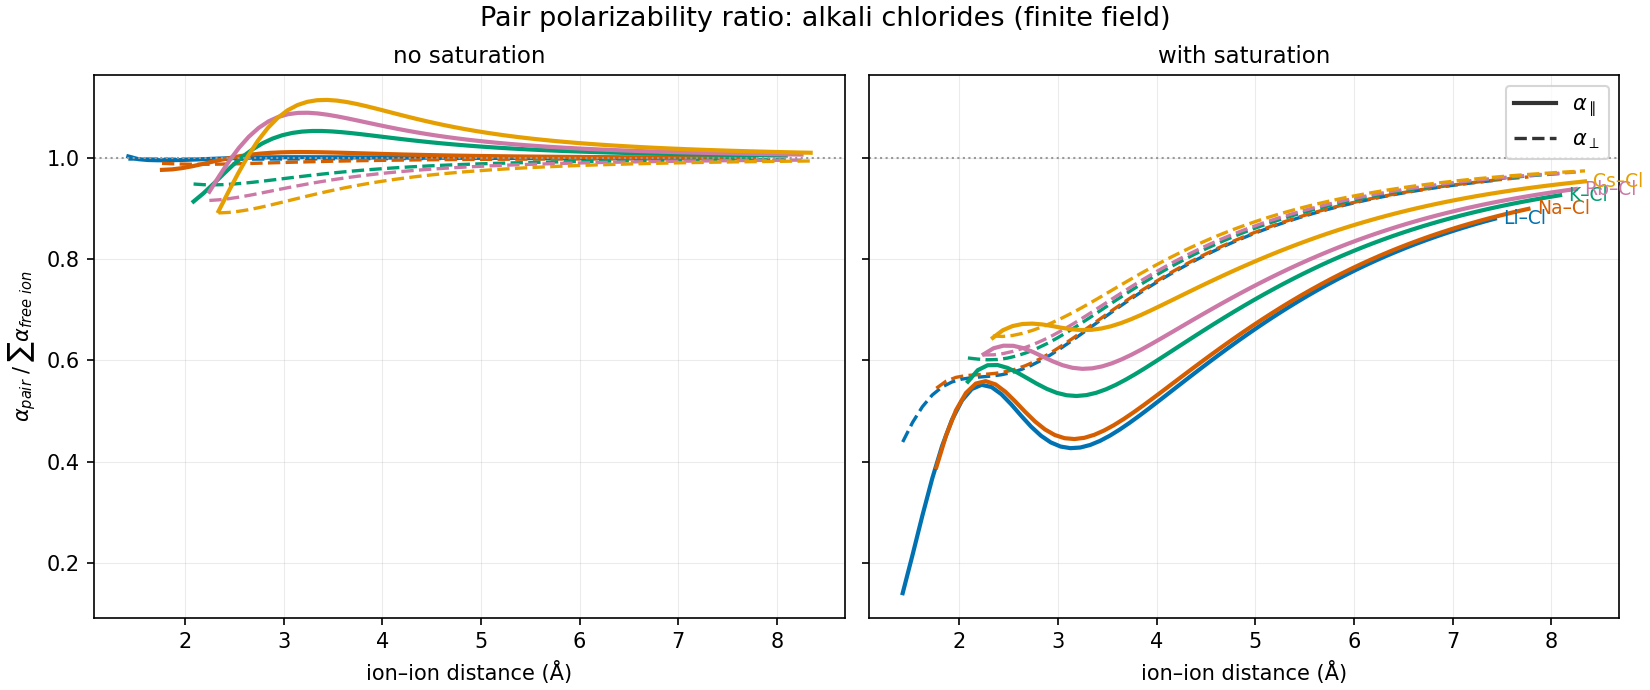
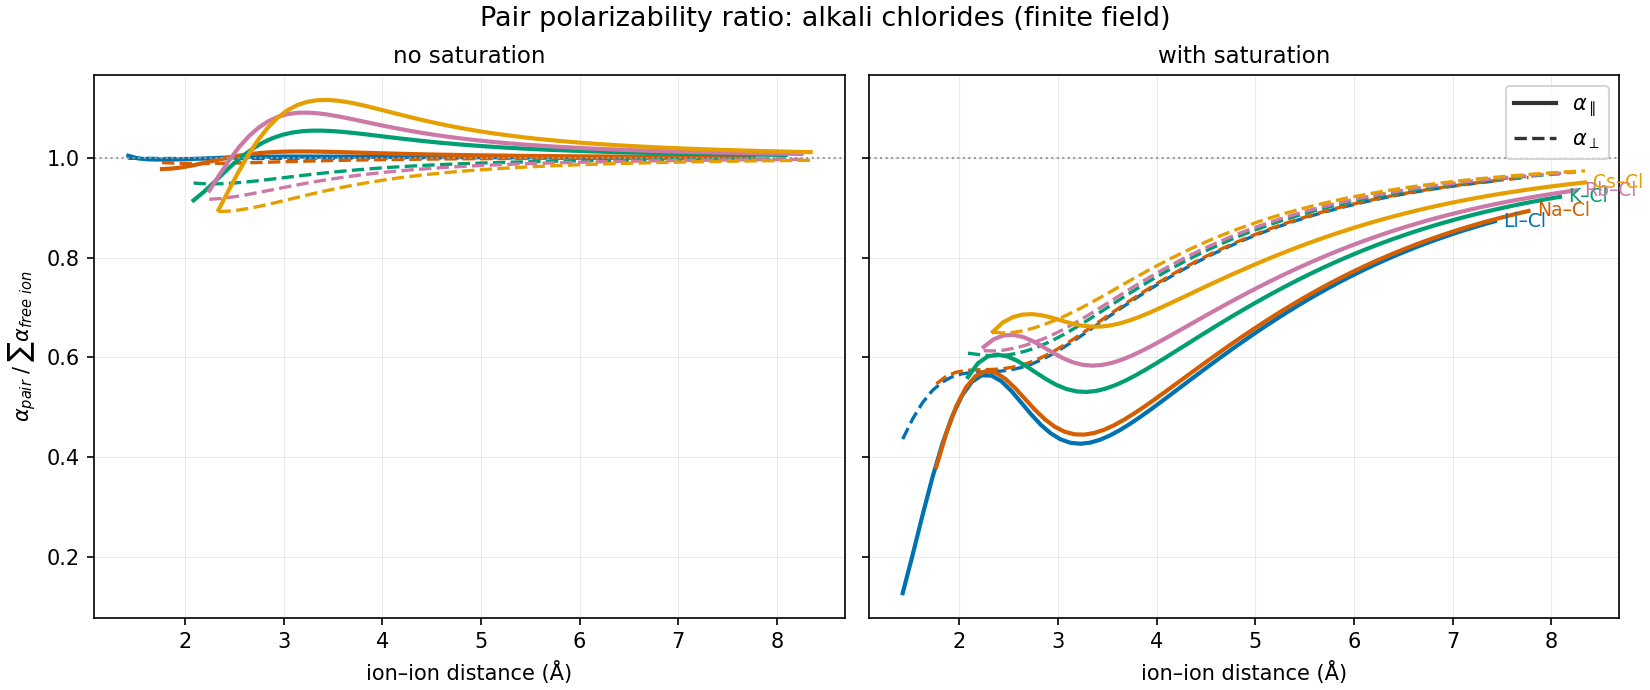
Direct quadrupole polarization

diff --git a/scripts/fit_dipole_saturation.py b/scripts/fit_dipole_saturation.py
@@ -57,15 +57,25 @@ def halide_mask(ff):
     return mask
 
 
+def type_mask(ff, type_names):
+    types = list(ff.pset.find('Polarization/Pol/type'))
+    mask = torch.zeros(len(types))
+    for t in type_names:
+        mask[types.index(t)] = 1.0
+    return mask
+
+
 def run_stage(ff, datas, param_groups, num_epoch, log_every=25):
-    """param_groups: list of (pset_path, lr). Only halide entries train."""
-    mask = halide_mask(ff)
-    params = []
-    for path, lr in param_groups:
+    """param_groups: list of (pset_path, lr, mask) — mask selects which type
+    entries of that parameter train (defaults to the halides when None)."""
+    groups = []
+    for path, lr, mask in param_groups:
         p = ff.pset.find(path)
         p.requires_grad_(True)
-        params.append({'params': [p], 'lr': lr})
-    optimizer = torch.optim.Adam(params)
+        groups.append({'params': [p], 'lr': lr,
+                       'mask': halide_mask(ff) if mask is None else mask,
+                       'path': path})
+    optimizer = torch.optim.Adam([{k: g[k] for k in ('params', 'lr')} for g in groups])
 
     systems = [ff.parametrize(Topology.fromOpenmm(d.top), batch=True) for d in datas]
     for n in range(num_epoch):
@@ -76,26 +86,26 @@ def run_stage(ff, datas, param_groups, num_epoch, log_every=25):
             loss = weight_mse(data.energies['pol'], res['pol'], weights)
             optimizer.zero_grad()
             loss.backward()
-            for g in optimizer.param_groups:
-                for p in g['params']:
-                    if p.grad is not None:
-                        p.grad *= mask
+            for g in groups:
+                p = g['params'][0]
+                if p.grad is not None:
+                    p.grad *= g['mask']
             optimizer.step()
             epoch_loss += loss.item()
         with torch.no_grad():
-            for path, _ in param_groups:
-                p = ff.pset.find(path)
+            for g in groups:
+                path, p, m = g['path'], g['params'][0], g['mask'].bool()
                 if path.endswith('sat_e0'):
-                    p.data[mask.bool()] = p.data[mask.bool()].clamp(E0_MIN, E0_MAX)
+                    p.data[m] = p.data[m].clamp(E0_MIN, E0_MAX)
                 elif path.endswith('sat_w'):
-                    p.data[mask.bool()] = p.data[mask.bool()].clamp(0.1, 10.0)
+                    p.data[m] = p.data[m].clamp(0.1, 10.0)
                 elif path.endswith('sat_c_ani'):
                     # either sign is well-defined (free-ion limit exact, energy
                     # bounded, SPD floor in the solver); negative = extra
                     # axial damping instead of a parallel rise
-                    p.data[mask.bool()] = p.data[mask.bool()].clamp(-10.0, 10.0)
+                    p.data[m] = p.data[m].clamp(-10.0, 10.0)
                 else:
-                    p.data[mask.bool()] = p.data[mask.bool()].clamp_min(1e-6)
+                    p.data[m] = p.data[m].clamp_min(1e-6)
         if n % log_every == 0 or n == num_epoch - 1:
             print(f'epoch {n:4d}  sum pol loss = {epoch_loss:.4f}')
 
@@ -136,29 +146,26 @@ def main():
         ff.pset.find('Polarization/Pol/sat_c_ani').zero_()  # isotropic-only
 
     print('\n===== stage 1: sat_c_iso only (sat_e0 = 0.05 a.u. fixed) =====')
-    run_stage(ff, datas, [('Polarization/Pol/sat_c_iso', 0.05)], args.epochs1)
+    run_stage(ff, datas, [('Polarization/Pol/sat_c_iso', 0.05, None)], args.epochs1)
     report(ff, datas)
 
     print('\n===== stage 2: sat_c_iso + per-ion sat_e0 =====')
-    run_stage(ff, datas, [('Polarization/Pol/sat_c_iso', 0.02),
-                          ('Polarization/Pol/sat_e0', 0.002)], args.epochs2)
+    run_stage(ff, datas, [('Polarization/Pol/sat_c_iso', 0.02, None),
+                          ('Polarization/Pol/sat_e0', 0.002, None)], args.epochs2)
     report(ff, datas)
 
-    # ---- anisotropic term: seed and fit with the isotropic part frozen ----
-    mask = halide_mask(ff).bool()
+    # ---- direct quadrupole polarization: halides + the big soft cations ----
+    quad_mask = type_mask(ff, HALIDE_TYPES + ['rb+', 'cs+'])
     with torch.no_grad():
-        ff.pset.find('Polarization/Pol/sat_c_ani').data[mask] = 0.1
-        ff.pset.find('Polarization/Pol/sat_w').data[mask] = 1.0
-    print('\n===== stage 3: sat_c_ani + sat_w (isotropic frozen) =====')
-    run_stage(ff, datas, [('Polarization/Pol/sat_c_ani', 0.005),
-                          ('Polarization/Pol/sat_w', 0.02)], args.epochs3)
+        ff.pset.find('Polarization/Pol/quad_pol').data[quad_mask.bool()] = 2.0
+    print('\n===== stage 3: quad_pol alone (saturation frozen) =====')
+    run_stage(ff, datas, [('Polarization/Pol/quad_pol', 0.3, quad_mask)], args.epochs3)
     report(ff, datas)
 
-    print('\n===== stage 4: joint fine-tune (all four, small lr) =====')
-    run_stage(ff, datas, [('Polarization/Pol/sat_c_iso', 0.01),
-                          ('Polarization/Pol/sat_e0', 0.001),
-                          ('Polarization/Pol/sat_c_ani', 0.002),
-                          ('Polarization/Pol/sat_w', 0.01)], args.epochs4)
+    print('\n===== stage 4: joint fine-tune (c_iso, e0, quad_pol) =====')
+    run_stage(ff, datas, [('Polarization/Pol/sat_c_iso', 0.01, None),
+                          ('Polarization/Pol/sat_e0', 0.001, None),
+                          ('Polarization/Pol/quad_pol', 0.1, quad_mask)], args.epochs4)
     report(ff, datas)
     print('\n--- divalent pairs (held out, not fit) ---')
     report(ff, datas_divalent)
@@ -166,12 +173,11 @@ def main():
     types = ff.pset.find('Polarization/Pol/type')
     c_iso = ff.pset.find('Polarization/Pol/sat_c_iso')
     e0 = ff.pset.find('Polarization/Pol/sat_e0')
-    c_ani = ff.pset.find('Polarization/Pol/sat_c_ani')
-    w = ff.pset.find('Polarization/Pol/sat_w')
+    qp = ff.pset.find('Polarization/Pol/quad_pol')
     print('\n=== fitted parameters ===')
     for i, t in enumerate(types):
         print(f'{t:6s} sat_c_iso={c_iso[i].item():10.5f} sat_e0={e0[i].item():10.5f} '
-              f'sat_c_ani={c_ani[i].item():10.5f} sat_w={w[i].item():10.5f}')
+              f'quad_pol={qp[i].item():10.5f}')
 
     ff.save(args.out)
     print(f'\nwrote {args.out}')

diff --git a/tests/test_dipole_saturation.py b/tests/test_dipole_saturation.py
@@ -170,3 +170,57 @@ def test_uniform_field_saturation_sublinear():
     p1, p2 = induced(e1), induced(e2)
     assert p1 > 0
     assert p2 / p1 < 2.0 * 0.999  # sublinear growth for the saturating Cl-
+
+
+def test_quadrupole_point_charge_analytic():
+    # packed d2(phi) of a point charge q at distance r along x:
+    # diag(2, -1, -1) * q/r^3  ->  |G0|^2 = 6 q^2/r^6, U = -3 C q^2 / r^6
+    from cmm.quadrupole_polarization import quadrupole_polarization_energy
+    q, r, C = 1.3, 4.0, 25.0
+    g = torch.tensor([[2.0, 0.0, 0.0, -1.0, 0.0, -1.0]]) * (q / r ** 3)
+    e = quadrupole_polarization_energy(g, torch.tensor([C]))
+    assert torch.allclose(e, torch.tensor([-3.0 * C * q * q / r ** 6]), rtol=1e-12)
+
+    # a pure-trace gradient (unphysical, but exercises the traceless projection)
+    g_trace = torch.tensor([[1.0, 0.0, 0.0, 1.0, 0.0, 1.0]])
+    assert torch.allclose(quadrupole_polarization_energy(g_trace, torch.tensor([C])), torch.zeros(1))
+
+
+def test_quad_pol_end_to_end_far_field():
+    # two monovalent ions far apart: the field gradient at each ion is that of
+    # a +/-1 point charge, so energies['quad_pol'] -> -3 (C_i + C_j) / r^6
+    app = pytest.importorskip('openmm.app')
+    from cmm.ffxml import ForceFieldXML
+    from cmm.topology import Topology
+
+    scans = os.environ.get(
+        'CMM_DATA', os.path.join(os.path.dirname(__file__), '..', '..', 'CMM_Data')
+    )
+    pdb_file = os.path.join(scans, 'ion_water', 'ion_ion_scans', 'na_cl_scan.pdb')
+    if not os.path.exists(pdb_file):
+        pytest.skip('CMM_Data not available')
+
+    pdb = app.PDBFile(pdb_file)
+    ff = ForceFieldXML(
+        os.path.join(os.path.dirname(__file__), '..', 'scripts', 'ion_water_refit.xml'),
+        device='cpu', float_dtype=torch.float64
+    )
+    types = list(ff.pset.find('Polarization/Pol/type'))
+    C = 40.0
+    with torch.no_grad():
+        ff.pset.find('Polarization/Pol/quad_pol')[types.index('cl-')] = C
+
+    top = Topology.fromOpenmm(pdb.topology, 'cpu')
+    system = ff.parametrize(top, batch=True)
+    r = 40.0  # bohr, far enough that CP damping is negligible
+    coords = torch.tensor([[[0.0, 0.0, 0.0], [r, 0.0, 0.0]]])
+    res = system.getEnergy(coords)
+    expected = -3.0 * C / r ** 6
+    assert torch.allclose(res['quad_pol'][0], torch.tensor(expected), rtol=1e-6)
+
+    # the term lands in the pol channel: switching it off changes pol by exactly quad_pol
+    with torch.no_grad():
+        ff.pset.find('Polarization/Pol/quad_pol')[types.index('cl-')] = 0.0
+    res0 = system.getEnergy(coords)
+    assert torch.allclose(res['elec_pol'][0] - res0['elec_pol'][0], res['quad_pol'][0], atol=1e-14)
+    assert torch.allclose(res0['quad_pol'], torch.zeros(1))

diff --git a/cmm/batched_system.py b/cmm/batched_system.py
@@ -32,6 +32,7 @@ from .dispersion import computeDispersionFromPairs
 from .dipole_saturation import (
     unit_field_axis, saturation_energy, saturation_secant_matrix
 )
+from .quadrupole_polarization import quadrupole_polarization_energy
 from .electrostatics import computePermanentElectricPotentialExpansion
 from .units import HARTREE2KCAL
 
@@ -296,6 +297,7 @@ class BatchedSystem(nn.Module):
         ene_pauli = torch.zeros(nbz, device=device, dtype=dtype)
         ene_disp = torch.zeros(nbz, device=device, dtype=dtype)
         induced_molecular_dipole = torch.zeros((nbz, 3), device=device, dtype=dtype)
+        ene_qpol = torch.zeros(nbz, device=device, dtype=dtype)
         # these two variables are used in evaluate fd-morse
         efield = torch.zeros((self.natoms*nbz, 3), device=device, dtype=dtype)
         dq_a = torch.zeros(self.natoms*nbz, device=device, dtype=dtype)
@@ -344,6 +346,7 @@ class BatchedSystem(nn.Module):
             sat_c_ani = self.parametrizers['Polarization'].getExpandParameters("sat_c_ani")[expand_to_batch_indices]
             sat_w = self.parametrizers['Polarization'].getExpandParameters("sat_w")[expand_to_batch_indices]
             sat_e0 = self.parametrizers['Polarization'].getExpandParameters("sat_e0")[expand_to_batch_indices]
+            quad_pol = self.parametrizers['Polarization'].getExpandParameters("quad_pol")[expand_to_batch_indices]
             alpha_iso = torch.diagonal(polarizabilities, dim1=-2, dim2=-1).mean(dim=-1)
             use_sat = self.use_dipole_saturation and bool(
                 torch.any(sat_c_iso != 0) or torch.any(sat_c_ani != 0)
@@ -569,6 +572,12 @@ class BatchedSystem(nn.Module):
                 solutions_ct, ene_pol_ct = solve_polarization(b_vector_ct)
                 ene_ct_indirect = ene_pol_ct - ene_pol
 
+                # direct (non-SCF) quadrupole polarization from the permanent
+                # field gradient; lands in the pol channel
+                if torch.any(quad_pol != 0):
+                    ene_qpol = quadrupole_polarization_energy(edata[:, 4:10], quad_pol).reshape(nbz, -1).sum(dim=1)
+                    ene_pol = ene_pol + ene_qpol
+
                 # induced molecular dipole P = sum_i (q_i r_i + mu_i) from the
                 # converged polarization solution (finite-field polarizability)
                 q_ind = solutions[:, self._fill_bvec_epot_indices]
@@ -610,6 +619,7 @@ class BatchedSystem(nn.Module):
         energies = {
             "perm_elec": ene_elec,
             "elec_pol": ene_pol,
+            "quad_pol": ene_qpol,
             "ct_direct": ene_ct_direct,
             "ct_indirect": ene_ct_indirect,
             "xpol": ene_xpol,

diff --git a/cmm/system.py b/cmm/system.py
@@ -40,6 +40,7 @@ from .pme_helper import PME
 from .electrostatics import computeDampFactorsErfc, computeDampFactorsErf
 from .polarization import CMMPolarization
 from .dipole_saturation import unit_field_axis
+from .quadrupole_polarization import quadrupole_polarization_energy
 from .switching_functions import SwitchFunction
 
 import time, os
@@ -668,6 +669,19 @@ class System(nn.Module):
                                 pol_interaction_tensor_sr=pol_tensor,
                                 direct_field_tensor_excl=realSpaceTensor_excl,
                             )
+
+                        # direct (non-SCF) quadrupole polarization from the
+                        # permanent field gradient
+                        quad_pol = self.parametrizers['Polarization'].getExpandParameters("quad_pol")
+                        if torch.any(quad_pol != 0):
+                            # real-space edata[:, 4:10] holds packed +d2(phi);
+                            # the ewald module returns the true grad(E) = -d2(phi)
+                            grad_packed = edata[:, 4:10]
+                            if self.use_ewald:
+                                grad_packed = grad_packed - ewald_field_gradient[:, [0, 0, 0, 1, 1, 2], [0, 1, 2, 1, 2, 2]]
+                            elif self.use_pme:
+                                raise NotImplementedError("quad_pol not supported with PME recip yet")
+                            ene_pol = ene_pol + torch.sum(quadrupole_polarization_energy(grad_packed, quad_pol))
                 else:
                     ene_pol = torch.tensor(0.0, device=coords.device)
 
@@ -963,6 +977,8 @@ class System(nn.Module):
                             sat_e0 = self.parametrizers['Polarization'].getExpandParameters("sat_e0")
                             sat_alpha_iso = torch.diagonal(polarizabilities, dim1=-2, dim2=-1).mean(dim=-1)
                             sat_axis = unit_field_axis(efield)
+                            if torch.any(self.parametrizers['Polarization'].getExpandParameters("quad_pol") != 0):
+                                raise NotImplementedError("quad_pol not supported with use_customized_ops (real-space field gradient not returned by the fused op)")
 
                         # Evaluate initial guess #
                         if self.last_induced_multipoles.numel() == 0:

diff --git a/cmm/quadrupole_polarization.py b/cmm/quadrupole_polarization.py
@@ -1,0 +1,41 @@
+"""Direct (non-self-consistent) quadrupole polarization.
+
+Each atom carries an effective isotropic quadrupole polarizability C
+(ffxml parameter `quad_pol`, a.u.). The induced quadrupole responds to the
+*permanent* electric field gradient only — it is not fed back into the
+polarization SCF, so the term is a cheap per-atom contraction:
+
+    U_qpol,i = -1/2 C_i |G0_i|^2 ,   G0 = traceless(grad E_perm)
+
+with |G0|^2 the full double contraction (off-diagonal components counted
+twice). Any convention factor in Theta = C grad E is absorbed into the fitted
+C. For an ion at distance r from a bare point charge q the traceless
+|grad E|^2 = 6 q^2 / r^6, so U_qpol = -3 C q^2 / r^6.
+
+Limitations: because the response is to the permanent gradient only, mutual
+(induced-dipole -> gradient) couplings are neglected. Forces are conservative:
+the energy is an explicit function of coordinates, handled by autograd.
+"""
+import torch
+
+# packed second-derivative order used throughout the code base
+# (see electrostatics.computePermanentElectricPotentialExpansion)
+_PACKED = ('xx', 'xy', 'xz', 'yy', 'yz', 'zz')
+_DIAG = (0, 3, 5)
+_OFFDIAG = (1, 2, 4)
+
+
+def quadrupole_polarization_energy(efield_grad_packed: torch.Tensor,
+                                   quad_pol: torch.Tensor) -> torch.Tensor:
+    """Per-atom direct quadrupole polarization energy, shape (N,).
+
+    efield_grad_packed: (N, 6) packed [xx, xy, xz, yy, yz, zz] second
+        derivatives of the permanent potential (sign convention irrelevant).
+    quad_pol: (N,) effective isotropic quadrupole polarizabilities C (a.u.).
+    """
+    g = efield_grad_packed
+    trace_third = (g[:, 0] + g[:, 3] + g[:, 5]) / 3.0
+    d = torch.stack([g[:, i] - trace_third for i in _DIAG], dim=1)
+    o = g[:, _OFFDIAG]
+    normsq = torch.sum(d * d, dim=1) + 2.0 * torch.sum(o * o, dim=1)
+    return -0.5 * quad_pol * normsq

diff --git a/scripts/plot_dipole_saturation.py b/scripts/plot_dipole_saturation.py
@@ -92,6 +92,8 @@ def pair_polarizability_scan(ff, data, use_sat=True):
 
 
 def plot_scan_energies(ff, root, outpath):
+    quad_pol_t = ff.pset.find('Polarization/Pol/quad_pol')
+    has_quad = bool(torch.any(quad_pol_t != 0))
     fig, axes = plt.subplots(len(CATIONS), len(ANIONS), figsize=(15, 21),
                              sharex=False, constrained_layout=True)
     for i, cat in enumerate(CATIONS):
@@ -106,7 +108,19 @@ def plot_scan_energies(ff, root, outpath):
 
             ax.plot(r, e_eda, 'o', ms=4, color=C_REF, label='EDA (pol)', zorder=3)
             ax.plot(r, e_base, '--', lw=2, color=C_BASE, label='CMM, no saturation')
-            ax.plot(r, e_sat, '-', lw=2, color=C_MODEL, label='CMM, saturation')
+            if has_quad:
+                quad_backup = quad_pol_t.detach().clone()
+                try:
+                    with torch.no_grad():
+                        quad_pol_t.zero_()
+                    e_sat_only = model_pol_scan(ff, data, use_sat=True)
+                finally:
+                    with torch.no_grad():
+                        quad_pol_t.copy_(quad_backup)
+                ax.plot(r, e_sat_only, ':', lw=2, color='#009E73', label='CMM, saturation only')
+                ax.plot(r, e_sat, '-', lw=2, color=C_MODEL, label='CMM, saturation + quad pol')
+            else:
+                ax.plot(r, e_sat, '-', lw=2, color=C_MODEL, label='CMM, saturation')
 
             lo = min(e_eda.min(), e_sat.min())
             ax.set_ylim(1.3 * lo, 2.0)

diff --git a/cmm/ffxml/__init__.py b/cmm/ffxml/__init__.py
@@ -553,7 +553,7 @@ class ForceFieldXML:
         for p in ['eta', 'alpha_xx', 'alpha_yy', 'alpha_zz']:
             polParametrizer.registerParameters(p, self.pset.find(f'Polarization/Pol/{p}'))
         # dipole-saturation parameters (optional in the xml; default = no saturation)
-        for p, default in [('sat_c_iso', 0.0), ('sat_c_ani', 0.0), ('sat_w', 1.0), ('sat_e0', 0.05)]:
+        for p, default in [('sat_c_iso', 0.0), ('sat_c_ani', 0.0), ('sat_w', 1.0), ('sat_e0', 0.05), ('quad_pol', 0.0)]:
             vals = self.pset.find(f'Polarization/Pol/{p}', default='missing')
             if not torch.is_tensor(vals):
                 vals = torch.full_like(self.pset.find('Polarization/Pol/eta'), default)

diff --git a/cmm/develop/optimize.py b/cmm/develop/optimize.py
@@ -99,6 +99,7 @@ class Optimizer:
             'ChargeTransfer/Direct/b_ct', 'ChargeTransfer/Pair/b_ct', 'ChargeTransfer/Indirect/eps_ct',
             'Polarization/Pol/eta', 'Polarization/Pol/alpha_xx', 'Polarization/Pol/alpha_yy', 'Polarization/Pol/alpha_zz',
             'Polarization/Pol/sat_c_iso', 'Polarization/Pol/sat_c_ani', 'Polarization/Pol/sat_w', 'Polarization/Pol/sat_e0',
+            'Polarization/Pol/quad_pol',
             'Bonds/Bond/r_eq', 'Bonds/Bond/D', 'Bonds/Bond/k_b',
             'Angles/Angle/theta_eq', 'Angles/Angle/k_theta',
             # from here are the equilibrium values in the coupling terms
